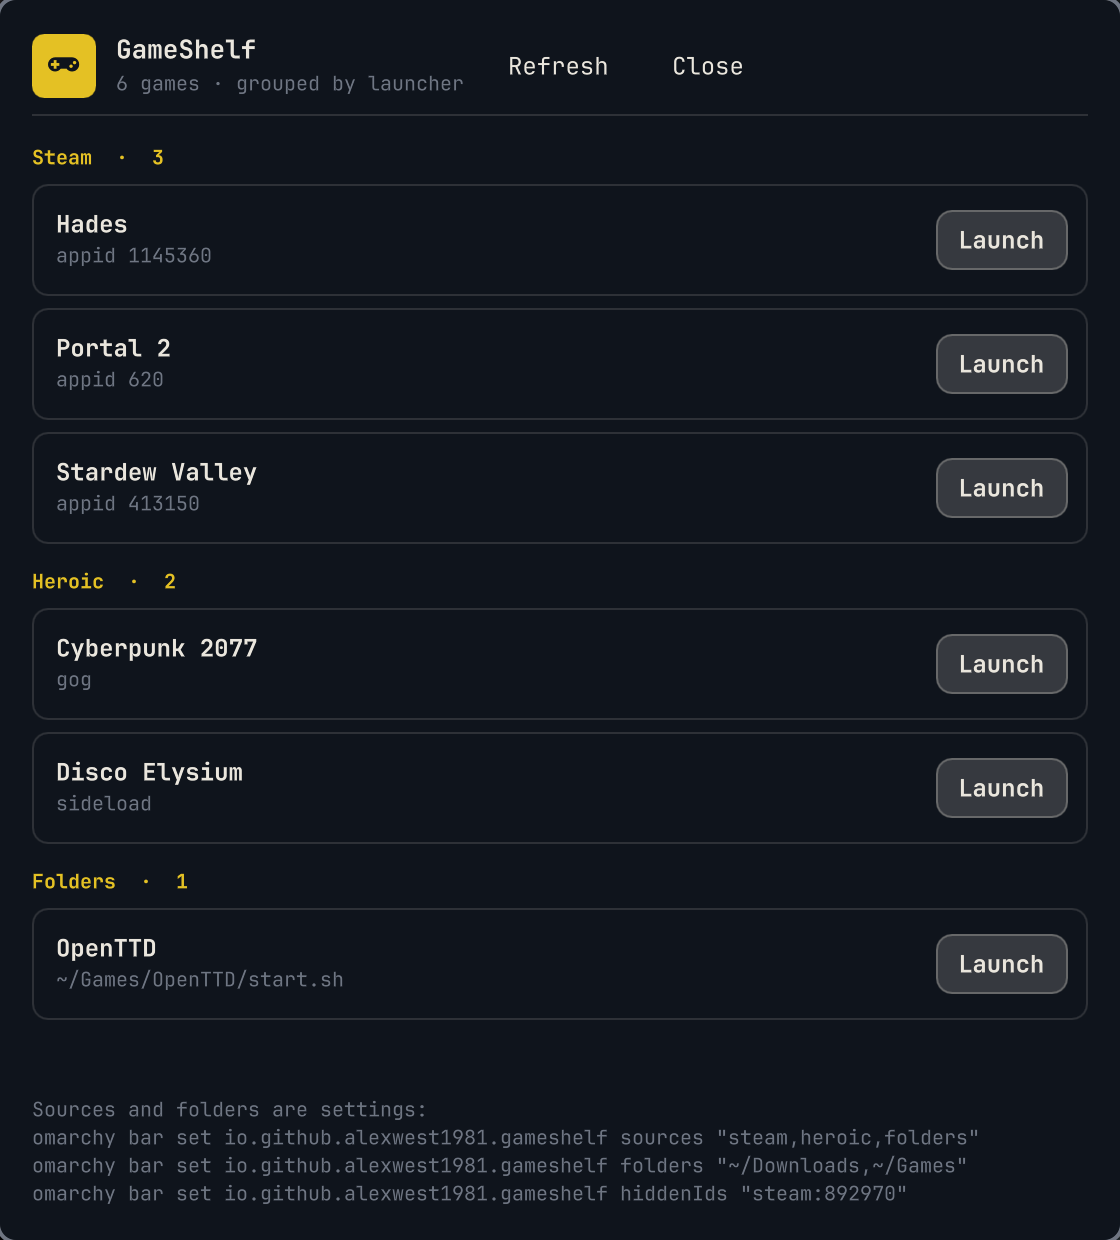
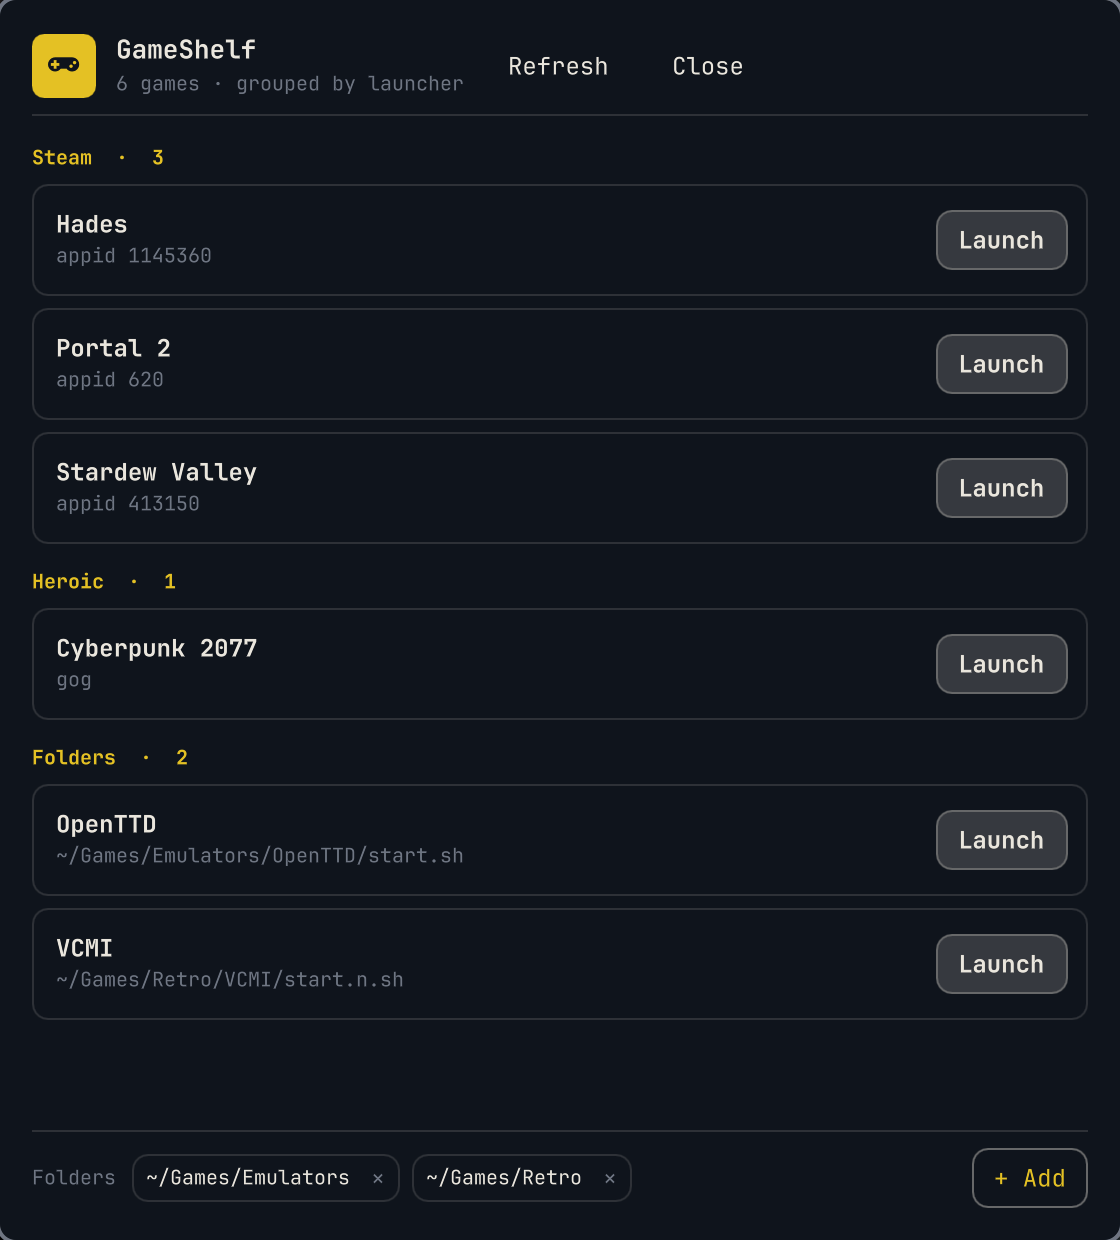
Folders picked in the panel, not on the command line
The panel's footer told you to run `omarchy bar set ... folders`. It is a row
now: one chip per folder with an x to remove it, and "+ Add" opens a folder
picker. The list is written with the same CLI the footer named, so the shell
reloads the widget and it rescans.

Two things fell out of it:
- The widget handed the panel an empty payload, so the panel always scanned the
  manifest defaults: the configured folders showed up nowhere and the panel's
  list was not the widget's. It now sends sources/folders/hiddenIds along.
- A Qt dialog needs the window that opens it, so the picker is a child of the
  panel window instead of the panel object.

preview.png re-rendered: the old one still showed the CLI footer.

diff --git a/Panel.qml b/Panel.qml
@@ -1,5 +1,6 @@
 import QtQuick
 import QtQuick.Controls
+import QtQuick.Dialogs
 import QtQuick.Layouts
 import Quickshell
 import Quickshell.Io
@@ -22,6 +23,10 @@ Item {
   property var games: []
   property bool scanning: false
   property string scanError: ""
+
+  // The folders the scanner walks, as the panel's own list: shown under the
+  // game list, added with a folder picker, written back as a bar setting.
+  property var foldersList: []
 
   readonly property string pluginId: "io.github.alexwest1981.gameshelf"
   readonly property string helper: Qt.resolvedUrl("scan-games.py").toString().replace("file://", "")
@@ -83,6 +88,7 @@ Item {
       }
     } catch (e) { /* empty payload: defaults are fine */ }
     optionsJson = JSON.stringify(opts)
+    foldersList = parseList(opts.folders)
     rescan()
   }
 
@@ -114,6 +120,81 @@ Item {
     // Detached: Steam/Heroic/Lutris are started through their URI handler, a
     // folder game is its own executable. Nothing here may die with the panel.
     Quickshell.execDetached(game.launch)
+  }
+
+  // ── Folders: pick them here, no CLI ──────────────────────────────────
+  // A comma string in the settings, a trimmed list in the panel. Anything
+  // else (a payload from a test, an array) is accepted too.
+  function parseList(value) {
+    if (value === undefined || value === null) return []
+    var raw = (typeof value === "string") ? value.split(",") : value
+    var out = []
+    for (var i = 0; i < raw.length; i++) {
+      var item = String(raw[i]).trim()
+      if (item !== "" && out.indexOf(item) < 0) out.push(item)
+    }
+    return out
+  }
+
+  function homePath() {
+    var opts = {}
+    try { opts = JSON.parse(root.optionsJson) } catch (e) { }
+    return String(opts.home || "")
+  }
+
+  // Show a path the way the settings carry it: home as ~.
+  function prettyPath(path) {
+    var home = homePath()
+    if (home !== "" && path.indexOf(home + "/") === 0) return "~" + path.substring(home.length)
+    var m = String(path).match("^/home/[^/]+")
+    return m ? "~" + path.substring(m[0].length) : path
+  }
+
+  function setFolders(list) {
+    foldersList = list
+    var value = list.join(",")
+    // The shell owns the settings; writing them is the CLI's job, and the
+    // widget re-reads them from shell.json and rescans (onSettingsChanged).
+    setProc.command = ["omarchy", "bar", "set", root.pluginId, "folders", value]
+    setProc.running = true
+    // The panel scans with what it just picked even before that lands.
+    try {
+      var opts = JSON.parse(root.optionsJson)
+      opts.folders = value
+      optionsJson = JSON.stringify(opts)
+    } catch (e) { }
+    rescan()
+  }
+
+  function addFolder(folder) {
+    var path = String(folder || "")
+    if (path.indexOf("file://") === 0) path = path.substring(7)
+    try { path = decodeURIComponent(path) } catch (e) { }
+    // A trailing slash is the same folder as no slash: FolderDialog sends one.
+    while (path.length > 1 && path.charAt(path.length - 1) === "/") path = path.slice(0, -1)
+    if (path === "" || foldersList.indexOf(path) >= 0) return
+    setFolders(foldersList.concat([path]))
+  }
+
+  function removeFolder(folder) {
+    setFolders(foldersList.filter(function(f) { return f !== folder }))
+  }
+
+  // The picker lives in the window (a Qt dialog needs the window that opens
+  // it), and the button goes through here so a test can open it too.
+  function openFolderPicker() {
+    folderDialog.open()
+  }
+
+  Process {
+    id: setProc
+    running: false
+    stderr: StdioCollector { id: setErr; waitForEnd: true }
+    onExited: function(exitCode) {
+      if (exitCode === 0) return
+      root.scanError = "could not save the folder setting (exit " + exitCode + ")"
+        + (setErr.text ? ": " + String(setErr.text).trim() : "")
+    }
   }
 
   Process {
@@ -329,18 +410,88 @@ Item {
           font.pixelSize: Style.font.body
         }
 
-        // ── Footer: where the settings live ─────────────────────────
-        Text {
+        // ── Folders: picked here, stored as a bar setting ───────────
+        Rectangle { Layout.fillWidth: true; Layout.preferredHeight: 1; color: root.lineColor }
+
+        RowLayout {
           Layout.fillWidth: true
-          text: "Sources and folders are settings:\n"
-            + "omarchy bar set io.github.alexwest1981.gameshelf sources \"steam,heroic,folders\"\n"
-            + "omarchy bar set io.github.alexwest1981.gameshelf folders \"~/Downloads,~/Games\"\n"
-            + "omarchy bar set io.github.alexwest1981.gameshelf hiddenIds \"steam:892970\""
-          color: root.themeMuted
-          font.family: root.fontFamily
-          font.pixelSize: Style.font.caption
-          wrapMode: Text.WordWrap
+          spacing: Style.space(8)
+
+          Text {
+            text: "Folders"
+            color: root.themeMuted
+            font.family: root.fontFamily
+            font.pixelSize: Style.font.caption
+          }
+
+          Flow {
+            Layout.fillWidth: true
+            spacing: Style.space(6)
+
+            Repeater {
+              model: root.foldersList
+              delegate: Rectangle {
+                id: chip
+                readonly property string folder: String(modelData)
+                width: Math.min(chipRow.implicitWidth + Style.space(14), 240)
+                height: Style.space(24)
+                radius: Style.cornerRadius
+                color: "transparent"
+                border.color: root.lineColor
+                border.width: 1
+
+                RowLayout {
+                  id: chipRow
+                  anchors.fill: parent
+                  anchors.leftMargin: Style.space(7)
+                  anchors.rightMargin: Style.space(3)
+                  spacing: Style.space(2)
+
+                  Text {
+                    Layout.fillWidth: true
+                    text: root.prettyPath(chip.folder)
+                    color: root.themeFg
+                    font.family: root.fontFamily
+                    font.pixelSize: Style.font.caption
+                    elide: Text.ElideMiddle
+                  }
+
+                  Text {
+                    Layout.preferredWidth: Style.space(16)
+                    text: String.fromCodePoint(0x00D7)
+                    color: removeHover.hovered ? root.themeUrgent : root.themeMuted
+                    font.family: root.fontFamily
+                    font.pixelSize: Style.font.body
+                    horizontalAlignment: Text.AlignHCenter
+                    verticalAlignment: Text.AlignVCenter
+                    HoverHandler { id: removeHover }
+                    MouseArea {
+                      anchors.fill: parent
+                      cursorShape: Qt.PointingHandCursor
+                      onClicked: root.removeFolder(chip.folder)
+                    }
+                  }
+                }
+              }
+            }
+          }
+
+          Button {
+            text: "+ Add"
+            foreground: root.themeAccent
+            bordered: true
+            tooltipText: "Pick a folder that holds your game launchers"
+            onClicked: root.openFolderPicker()
+          }
         }
+      }
+
+      // A Qt dialog needs the window that opens it, so the picker belongs to
+      // this window, not to the panel object outside it.
+      FolderDialog {
+        id: folderDialog
+        title: "Add a folder to scan"
+        onAccepted: root.addFolder(folderDialog.selectedFolder)
       }
     }
   }

diff --git a/BarWidget.qml b/BarWidget.qml
@@ -85,8 +85,13 @@ BarWidget {
     tooltipText: root.tooltip
     onPressed: function(b) {
       if (!root.bar || !root.bar.shell) return
-      if (b === Qt.RightButton) root.bar.shell.toggle("io.github.alexwest1981.gameshelf", "{}")
-      else root.bar.shell.summon("io.github.alexwest1981.gameshelf", "{}")
+      // Settings live on the bar's layout entry, and only this widget can read
+      // them (there is no `omarchy bar get`), so the panel is handed them with
+      // the summon: without the payload it scans the defaults and the folder
+      // row would show folders that are not the configured ones.
+      var payload = root.optionsJson()
+      if (b === Qt.RightButton) root.bar.shell.toggle(root.moduleName, payload)
+      else root.bar.shell.summon(root.moduleName, payload)
     }
   }
 }

diff --git a/README.md b/README.md
@@ -39,9 +39,17 @@ so removing the plugin removes them with it.
 
 ## Settings
 
+Folders are picked in the panel: **Folders → + Add** opens a folder picker, and
+the × on a chip takes that folder out again. The list is written to the bar
+layout entry, so it lives with the widget and survives a reinstall. A folder
+that is already listed (with or without a trailing slash) is not added twice.
+
+Sources and hidden games are set on the command line, and `folders` still works
+there too — for a script, or for a machine you are setting up over ssh:
+
 ```bash
 omarchy bar set io.github.alexwest1981.gameshelf sources "steam,heroic,folders"   # drop lutris
-omarchy bar set io.github.alexwest1981.gameshelf folders "~/Downloads,~/Games"    # where folders looks
+omarchy bar set io.github.alexwest1981.gameshelf folders "~/Downloads,~/Games"    # same list as the panel
 omarchy bar set io.github.alexwest1981.gameshelf hiddenIds "steam:892970"         # never list this one
 ```
 
